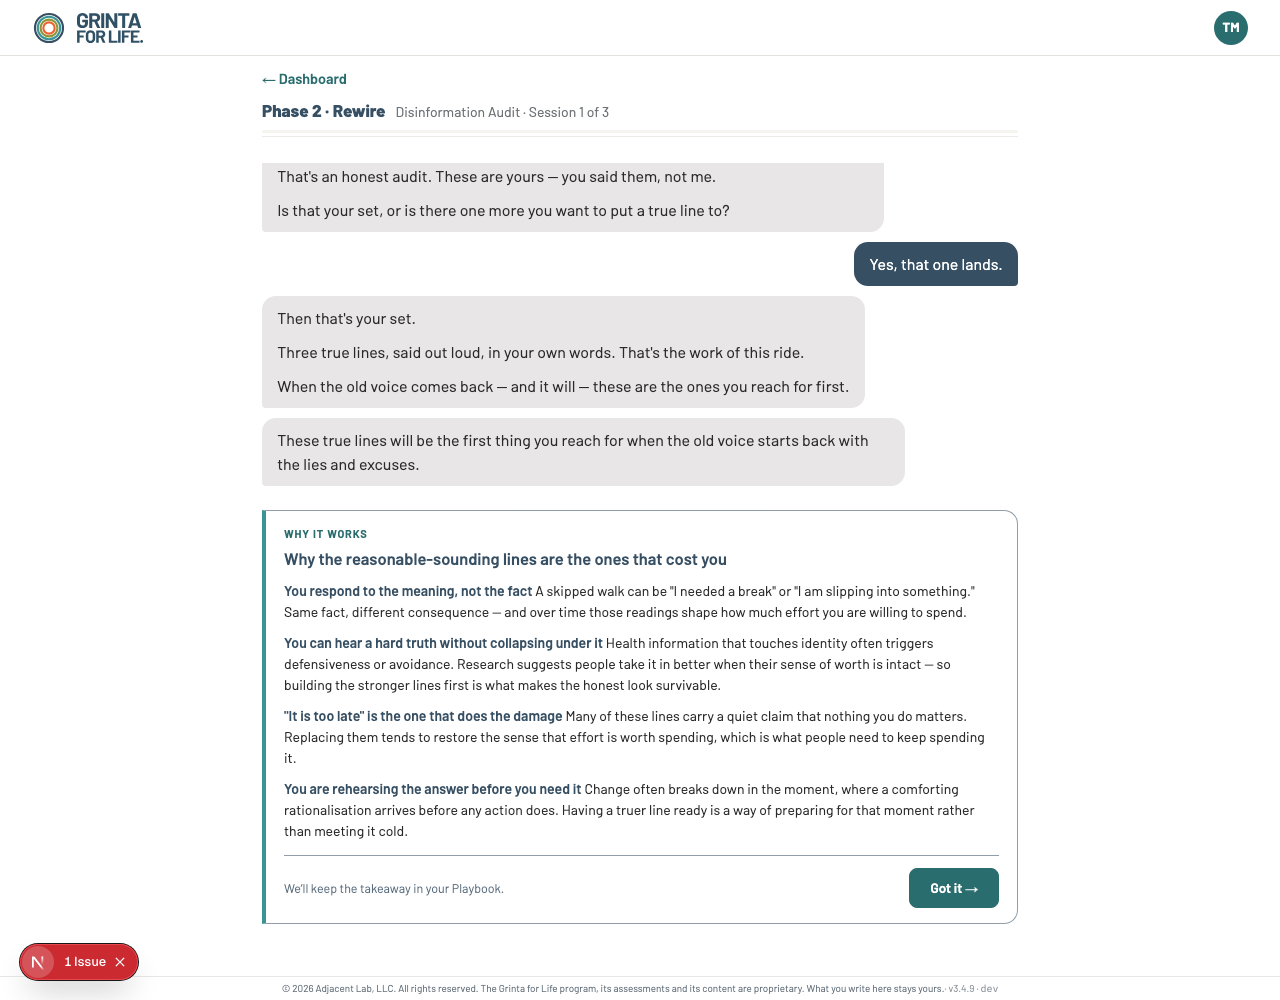
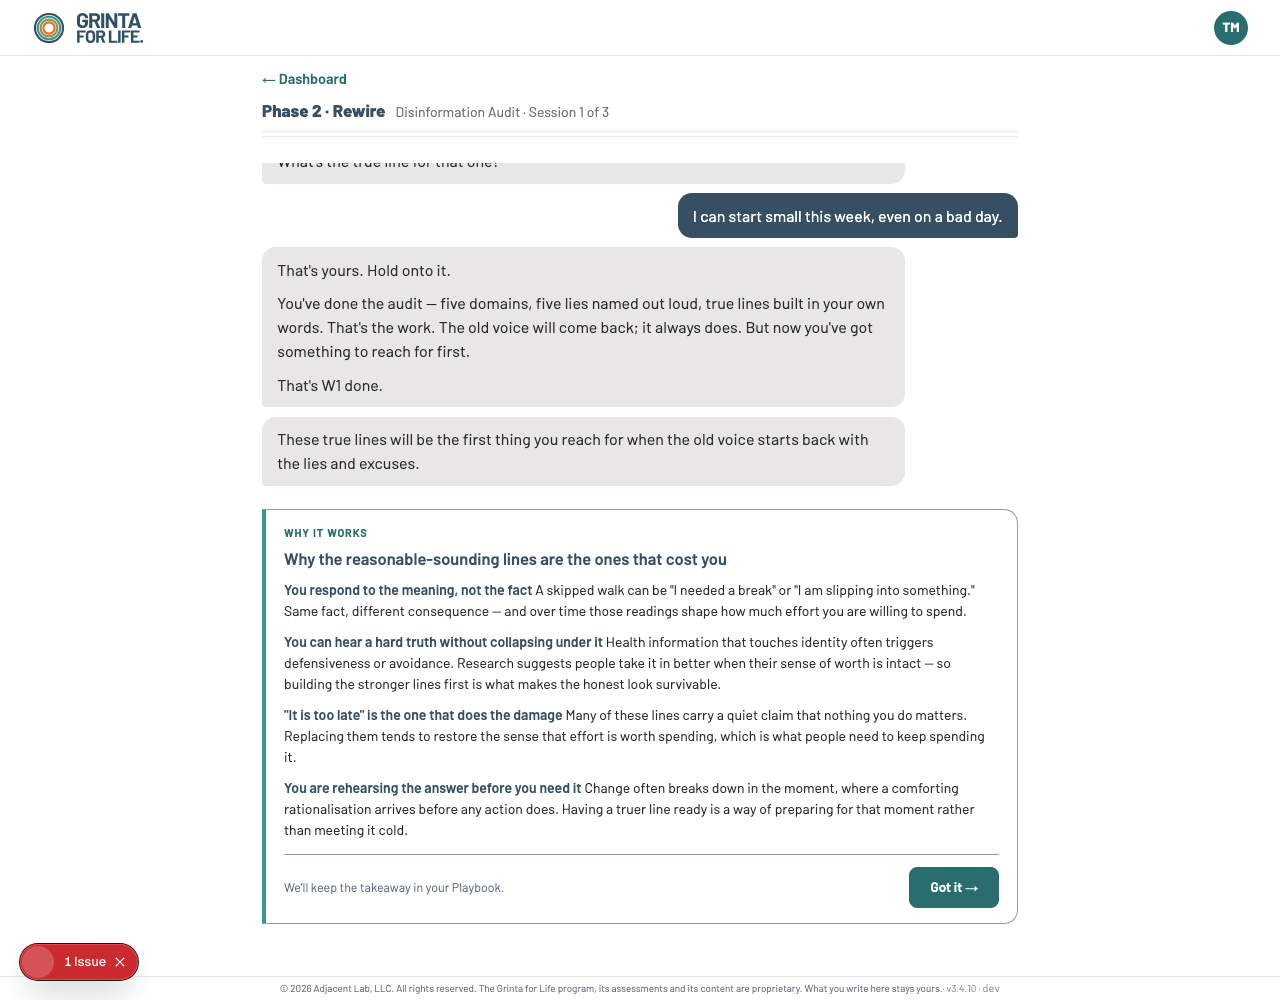
Reconnect's "Got it" was a no-op under a promise — and it hid a second fault
JAY'S CORRECTION, 2026-08-18: the button stays and stays gating the content. Donna's remark
was that the button was not WORKING, not that it should not exist. I had read her third ask
as "remove Got it" and held it as a product call. It was a bug report.

In Reconnect the card passed `onAcknowledge={() => {}}` — literally nothing — while rendering
"We'll keep the takeaway in your Playbook." So the button did nothing, no read was filed, and
the promise on screen was false. She was walking from the start, which is Reconnect, so this
is the one she hit.

WIRING IT EXPOSED A SECOND FAULT UNDERNEATH. keepSessionScience keyed its idempotency check
on the SESSION, which is right for the nine Sessions that file one read each. Reconnect files
THREE — one as R1, R2 and R3 each close. Keyed on 'reconnect' alone, the first would have
filed and the other two would have returned ok while writing nothing: the silent-drop shape
this file's own header was written about. The ref is now per card, and a test files all three
and counts them.

Both faults are the same shape as everything else found today — a promise made in the
member's own view that the code did not keep.

Suite: 1818 passing. Teaching walk green.

diff --git a/app/reconnect/reconnect-chat.tsx b/app/reconnect/reconnect-chat.tsx
@@ -5,7 +5,8 @@ import RichText from '../rich-text.tsx';
 import { startReconnectAction, reconnectTurnAction, reconnectCeremonyDataAction, loadReconnectSessionAction } from './actions.ts';
 import ScaleChips from '../components/scale-chips.tsx';
 import { TeachingFrame, TeachingUnderstand } from '../workspace/teaching-cards.tsx';
-import { reconnectTaughtSoFar } from '../../lib/content/teaching.ts';
+import { keepScienceAction } from '../workspace/actions.ts';
+import { reconnectTaughtSoFar, teachingSourceLabel } from '../../lib/content/teaching.ts';
 
 // Which beat each asset's card renders FOR — the card resolves its content by stage, so a past asset needs the
 // stage it closed at, not the member's current one.
@@ -57,6 +58,23 @@ export default function ReconnectChat({
   // card's CONTENT is derived from the stage, but its POSITION is a fact about when it arrived that only this
   // component can observe, so it is recorded rather than recomputed. Never reassigned once set: a card must not
   // drift up the thread because the conversation grew underneath it.
+  // RECONNECT'S "Got it" USED TO BE A NO-OP — `onAcknowledge={() => {}}` — while the card above it read "We'll
+  // keep the takeaway in your Playbook." So the button did nothing, nothing was filed, and the promise on screen
+  // was false. Donna hit it on her walk ("the button itself wasn't working") and she was walking from the start,
+  // which is Reconnect.
+  //
+  // It stays a BUTTON and it stays gating the content (Jay, 2026-08-18) — the fault was never that it existed.
+  // Reconnect has no hand-home to hold, so what it gates is the acknowledgment itself; what it must do is FILE
+  // the read, which is the thing the member was told would happen.
+  //
+  // Keyed by STAGE, so the three cards file as three reads rather than colliding on one session key.
+  const keepReconnectScience = (stage: string | undefined) => {
+    if (!stage) return; // an unmapped asset has no beat to file against — never invent one
+    void keepScienceAction(memberId, 'reconnect', teachingSourceLabel('reconnect', stage), null, stage)
+      .catch((e) => console.error('[teaching] reconnect keep failed', e));
+    notifyArtifactCommitted();
+  };
+
   const taught = reconnectTaughtSoFar(state?.stage);
   const [cardAt, setCardAt] = useState<Record<string, number>>({});
   useEffect(() => {
@@ -174,14 +192,14 @@ export default function ReconnectChat({
               {m.role === 'agent' ? <RichText text={m.text} /> : m.text}
             </div>
             {taught.filter((a) => cardAt[a] === i + 1).map((a) => (
-              <TeachingUnderstand key={a} sessionKey="reconnect" stage={LAST_BEAT[a]} onAcknowledge={() => {}} />
+              <TeachingUnderstand key={a} sessionKey="reconnect" stage={LAST_BEAT[a]} onAcknowledge={() => keepReconnectScience(LAST_BEAT[a])} />
             ))}
           </Fragment>
         ))}
         {/* Anything earned before the first message of a RESUMED thread — the position was not observed, so it
             leads rather than being invented into the middle of a conversation it predates. */}
         {taught.filter((a) => (cardAt[a] ?? 0) > messages.length).map((a) => (
-          <TeachingUnderstand key={a} sessionKey="reconnect" stage={LAST_BEAT[a]} onAcknowledge={() => {}} />
+          <TeachingUnderstand key={a} sessionKey="reconnect" stage={LAST_BEAT[a]} onAcknowledge={() => keepReconnectScience(LAST_BEAT[a])} />
         ))}
         {pending && <div className="typing">Thinking…</div>}
         {/* W-32 chips scroll WITH the thread (Jay's walk: not pinned to the bottom) — they answer the question above, autosend. */}

diff --git a/tests/teaching.test.ts b/tests/teaching.test.ts
@@ -106,3 +106,33 @@ test('Reconnect cards PERSIST as the arc moves on, and never appear early', () =
   // An unknown beat must not silently show everything.
   assert.deepEqual(seen('nonsense-beat'), [], 'an unmapped beat shows nothing rather than guessing');
 });
+
+test('Reconnect files THREE reads, one per asset — they cannot collide on one key', async () => {
+  // RECONNECT'S "Got it" WAS A NO-OP while the card promised "we'll keep the takeaway in your Playbook" — the
+  // button did nothing and nothing was filed (Donna, 2026-08-18: "the button itself wasn't working"). Wiring it
+  // exposed a second fault underneath: keepSessionScience keyed its idempotency check on the SESSION, and
+  // Reconnect files one read as each of R1, R2 and R3 closes. Keyed on 'reconnect' alone, the first would file
+  // and the other two would report success while writing nothing — the silent-drop shape, again.
+  const { keepSessionScience } = await import('../lib/content/teaching-keep.ts');
+  const { PGlite } = await import('@electric-sql/pglite');
+  const { applySchema } = await import('../lib/db/schema.ts');
+  const db = new PGlite() as never;
+  await applySchema(db);
+  const { rows } = await (db as never as { query: (s: string) => Promise<{ rows: { member_id: string }[] }> })
+    .query(`insert into member_profile (display_name, email) values ('R','r@x.test') returning member_id`);
+  const m = rows[0]!.member_id;
+
+  for (const stage of ['doors', 'drift', 'ceremony']) {
+    const r = await keepSessionScience(db, m, 'reconnect', 'Reconnect', null, stage);
+    assert.equal(r.ok, true, `${stage} filed`);
+  }
+  const kept = await (db as never as { query: (s: string, p: unknown[]) => Promise<{ rows: unknown[] }> })
+    .query(`select id from playbook_entry where member_id=$1 and source_kind='science'`, [m]);
+  assert.equal(kept.rows.length, 3, 'three distinct reads, not one');
+
+  // And still idempotent per card — re-acknowledging must not double-file.
+  await keepSessionScience(db, m, 'reconnect', 'Reconnect', null, 'doors');
+  const again = await (db as never as { query: (s: string, p: unknown[]) => Promise<{ rows: unknown[] }> })
+    .query(`select id from playbook_entry where member_id=$1 and source_kind='science'`, [m]);
+  assert.equal(again.rows.length, 3, 'still three');
+});

diff --git a/lib/content/teaching-keep.ts b/lib/content/teaching-keep.ts
@@ -42,15 +42,21 @@ export async function keepSessionScience(
   sessionKey: SessionKey,
   sourceLabel: string,
   chosenLine?: string | null,
+  stage?: string | null,
 ): Promise<KeptScience> {
-  const keeper = teachingKeeper(sessionKey, sourceLabel, chosenLine);
+  const keeper = teachingKeeper(sessionKey, sourceLabel, chosenLine, stage);
   if (!keeper) return { ok: false, reason: 'nothing to keep for this session' };
+  // THE REF IS PER CARD, NOT PER SESSION. Nine Sessions file one read each and `sessionKey` is enough. RECONNECT
+  // files THREE — one as each of R1, R2 and R3 closes — and they are three different reads about three different
+  // assets. Keyed on the session alone they would collide on the idempotency check above, and only the first
+  // would ever be filed while the other two silently reported success.
+  const ref = stage ? `${sessionKey}:${stage}` : sessionKey;
 
   // Already filed? The member can re-open a closed Session and meet the card again.
   const existing = await db.query<{ id: string }>(
     `select id from playbook_entry
       where member_id = $1 and section = $2 and source_kind = 'science' and source_ref = $3 limit 1`,
-    [memberId, WHY_SECTION, sessionKey],
+    [memberId, WHY_SECTION, ref],
   );
   if (existing.rows.length) return { ok: true, body: keeper.text, reason: 'already kept' };
 
@@ -61,7 +67,7 @@ export async function keepSessionScience(
       section: WHY_SECTION,
       body: keeper.text,
       state: 'kept', // the member acknowledged it; it is not a proposal awaiting curation
-      source: { kind: 'science', ref: sessionKey, label: sourceLabel },
+      source: { kind: 'science', ref, label: sourceLabel },
     });
   } catch (e) {
     console.error(`[teaching] science keeper FAILED to commit for ${memberId}/${sessionKey}:`, e);
@@ -73,7 +79,7 @@ export async function keepSessionScience(
   const check = await db.query<{ id: string }>(
     `select id from playbook_entry
       where member_id = $1 and section = $2 and source_kind = 'science' and source_ref = $3 limit 1`,
-    [memberId, WHY_SECTION, sessionKey],
+    [memberId, WHY_SECTION, ref],
   );
   if (!check.rows.length) {
     console.error(`[teaching] science keeper VANISHED after commit for ${memberId}/${sessionKey} — the member was told it was kept`);

diff --git a/app/workspace/actions.ts b/app/workspace/actions.ts
@@ -33,11 +33,12 @@ export async function keepScienceAction(
   key: string,
   sourceLabel: string,
   chosenLine?: string | null,
+  stage?: string | null,
 ): Promise<{ ok: boolean; reason?: string }> {
   if (!(await authorizeMember(memberId))) return { ok: false, reason: 'not authorized' };
   if (!isSessionKey(key)) return { ok: false, reason: 'unknown session' };
   const db = (await getDb()) as unknown as Db;
   const { keepSessionScience } = await import('../../lib/content/teaching-keep.ts');
-  const r = await keepSessionScience(db, memberId, key, sourceLabel);
+  const r = await keepSessionScience(db, memberId, key, sourceLabel, chosenLine, stage);
   return { ok: r.ok, reason: r.reason };
 }

diff --git a/app/workspace/use-teaching.ts b/app/workspace/use-teaching.ts
@@ -44,7 +44,7 @@ export function useTeaching(memberId: string, sessionKey: SessionKey, stage?: st
   const acknowledge = () => {
     setTaught(true); // release immediately — the filing is not something the member should wait on to READ
     // The action verifies its own write and logs server-side if the row vanished.
-    pending.current = keepScienceAction(memberId, sessionKey, teachingSourceLabel(sessionKey, stage))
+    pending.current = keepScienceAction(memberId, sessionKey, teachingSourceLabel(sessionKey, stage), null, stage)
       .catch((e) => console.error('[teaching] keep failed', e));
     notifyArtifactCommitted();
   };
